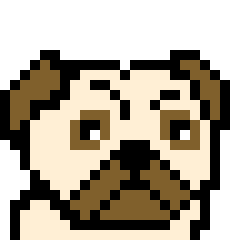
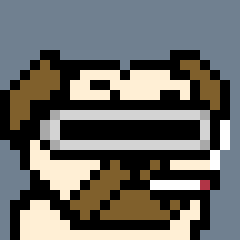
class pug is added

diff --git a/converter/pug.py b/converter/pug.py
@@ -1,0 +1,57 @@
+import parser
+import numpy as np
+
+class Pug:
+    def __init__(self, width, height):
+        self.canvas = np.zeros((height, width, 3))
+        self.canvas += (144, 128, 112)
+        self.width = width
+        self.height = height
+
+        self.draw('edge.dt3')
+        self.draw('hair.dt3')
+        self.draw('ears.dt3')
+        self.draw('eyes.dt3')
+        self.draw('mouth.dt3')
+        self.draw('wrinkles.dt3')
+
+        self.attributes = {
+            'glasses': None
+        }
+
+    def draw(self, doc):
+        f = parser.parse(doc)
+        paretto = self.__paretto()
+
+        for i in range(self.height):
+            for j in range(self.width):
+                if f.iloc[i][j] != 0:
+                    self.canvas[i,j] = paretto[f.iloc[i][j]]
+        print(doc)
+
+    def glasses(self):
+        #self.draw('3d-glasses.dt3')
+        self.draw('vr.dt3')
+        self.attributes['glasses'] = '3d glasses'
+
+    def cigarret(self):
+        self.draw('cigarette.dt3')
+        self.attributes['cigarret'] = 'cigarette'
+
+    def get_canvas(self):
+        return self.canvas 
+
+    def __paretto(self):
+        return {
+            245: (70, 53, 177),
+            246: (169, 169, 169),
+            247: (211, 211, 211),
+            248: (255, 0, 0),
+            249: (0, 0, 255),
+            250: (255, 255, 255),
+            253: (44, 96, 128),
+            254: (213, 239, 255),
+            255: (0, 0, 0)
+        }
+
+

diff --git a/converter/gen.py b/converter/gen.py
@@ -1,30 +1,15 @@
 import cv2 as cv
-import numpy as np
-import pandas as pd
-import csv
 from PIL import Image
-
-import edge
-import hair
-import sub_hair
-import eye
-import mouth
-import wrinkles
+from pug import Pug
 
 height = 24
 width = 24
-canvas = np.zeros((height, width, 3))
-canvas += 255
 
 # generate image
-canvas = edge.generate(canvas, height, width)
-canvas = hair.generate(canvas, height, width)
-canvas = sub_hair.generate(canvas, height, width)
-canvas = eye.generate(canvas, height, width)
-canvas = mouth.generate(canvas, height, width)
-canvas = wrinkles.generate(canvas, height, width)
-
-
+p = Pug(width, height)
+p.glasses()
+p.cigarret()
+canvas = p.get_canvas()
 
 interpolation = cv.INTER_AREA
 canvas = cv.resize(canvas, None, 0, 10,10,interpolation)
